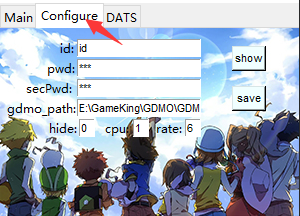
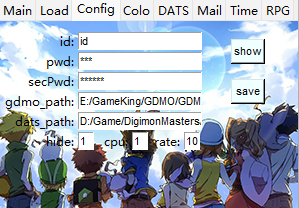
upd doc

diff --git a/projectArk/document.md b/projectArk/document.md
@@ -6,9 +6,9 @@ projectArk: True
 ---
 
 # Document
-> Version: v1.28
+> Version: v1.31
 >
-> Date: 2022.8.9
+> Date: 2022.9.1
 >
 > Author: Immortal.S
 
@@ -179,19 +179,7 @@ projectArk: True
 ### DATS - 支持全服
 ##### 说明
 - 功能：通过持续监控弯刀挂机过程实现相应自动化功能，具体表现依据 DATS 页面参数设定。
-- 参数:
-  - cfg.json:
-
-        ...
-        "DATS":{
-          ...
-          "ExePath": "D:\\Game\\DigimonMasters\\DATS v5.91\\dats.exe",
-          "Server-0": "国际服",
-          "Mode": "野外" 
-        }
-        ...
-      若守护的是副本模式就把"野外"改为"副本"；
-      服务器同理，国际服steam把"国际服"改成 "steam"
+- 参数：Config 页面设置 dats.exe 启动路径；DATS 页面设置服务器、挂机模式
 - 使用：主界面单击 DATS 启用功能；取消勾选弯刀“掉线重连”再点击“开始”挂机
 - 注意：本功能运行期间 **不可用 Hide 功能隐藏弯刀窗口**；只支持守护单个弯刀脚本 
 - 界面：
